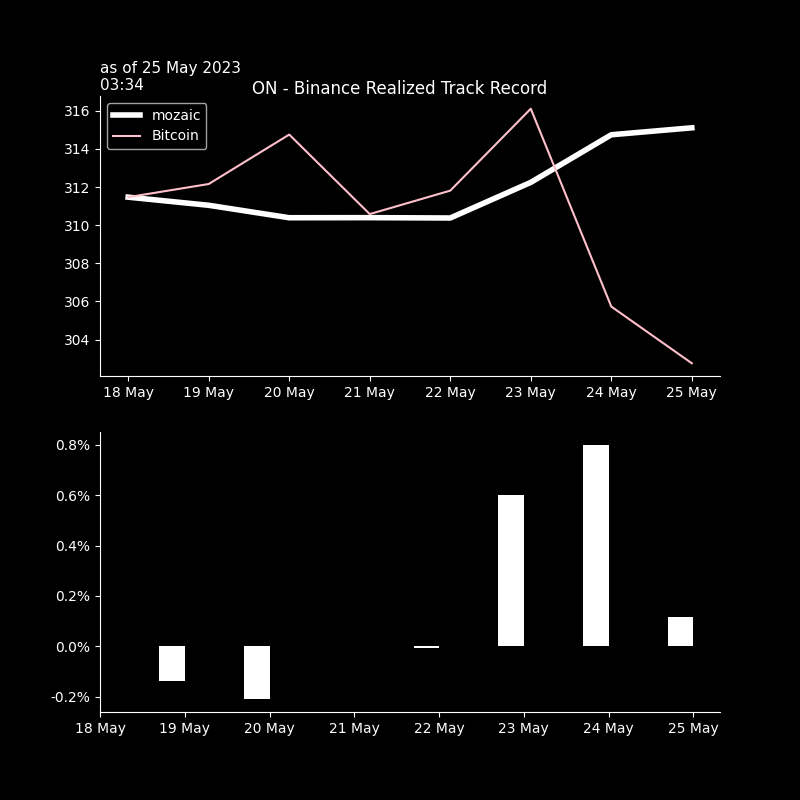
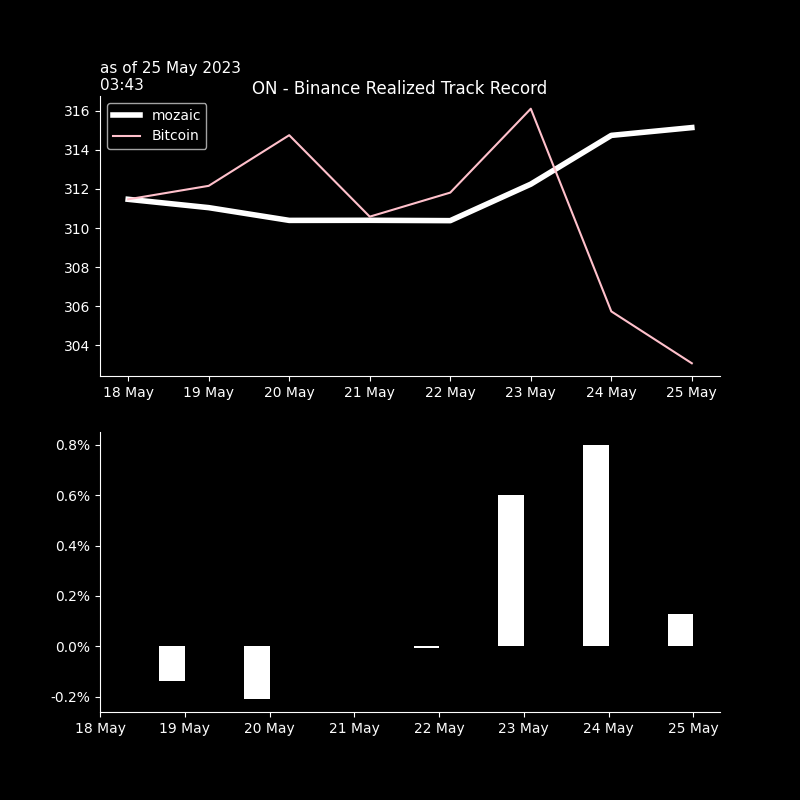
seb_commit

diff --git a/crypto/graphs/bt_trades_book.htmltrade_trades_book.html b/crypto/graphs/bt_trades_book.htmltrade_trades_book.html
@@ -37,36 +37,36 @@
   </thead>
   <tbody>
     <tr>
-      <th>BTCUSDT</th>
-      <td>26063.2000</td>
-      <td>2023-05-25 02:34:10</td>
-      <td>0.002</td>
-      <td>$52.1</td>
-      <td>$0.01</td>
+      <th>XRPUSDT</th>
+      <td>0.4512</td>
+      <td>2023-05-25 02:43:32.500</td>
+      <td>-171.800</td>
+      <td>$-77.5</td>
+      <td>$0.02</td>
       <td>2.0</td>
-      <td>0.3</td>
-      <td>26077.65000</td>
-      <td>2023-05-25 03:32</td>
       <td>0.0</td>
-      <td>6.0</td>
-      <td>26056.4</td>
+      <td>0.45155</td>
+      <td>2023-05-25 03:41</td>
+      <td>-0.1</td>
+      <td>-8.0</td>
+      <td>.4514</td>
       <td>-0.0</td>
-      <td>-2.0</td>
+      <td>-4.0</td>
     </tr>
     <tr>
-      <th>XRPUSDT</th>
-      <td>0.4509</td>
-      <td>2023-05-25 02:34:11</td>
-      <td>171.800</td>
-      <td>$77.5</td>
+      <th>BTCUSDT</th>
+      <td>26077.6000</td>
+      <td>2023-05-25 02:43:37.000</td>
+      <td>-0.001</td>
+      <td>$-26.1</td>
       <td>$0.01</td>
       <td>2.0</td>
-      <td>0.1</td>
-      <td>0.45105</td>
-      <td>2023-05-25 03:32</td>
       <td>0.0</td>
-      <td>4.0</td>
-      <td>.4509</td>
+      <td>26082.65000</td>
+      <td>2023-05-25 03:41</td>
+      <td>-0.0</td>
+      <td>-4.0</td>
+      <td>26079.3</td>
       <td>-0.0</td>
       <td>-0.0</td>
     </tr>

diff --git a/crypto/graphs/bt_trades_recap.htmltrade_trades_recap.html b/crypto/graphs/bt_trades_recap.htmltrade_trades_recap.html
@@ -9,32 +9,32 @@
   <tbody>
     <tr>
       <th>as of</th>
-      <td>25May 02:34&gt;&gt;02:34</td>
+      <td>25May 02:43&gt;&gt;02:43</td>
       <td>#trades: 2</td>
     </tr>
     <tr>
       <th>trade net</th>
-      <td>+130.0</td>
-      <td>+41.3%</td>
+      <td>-104.0</td>
+      <td>-33.0%</td>
     </tr>
     <tr>
       <th>trade gross</th>
-      <td>+130.0</td>
-      <td>+41.3%</td>
+      <td>+104.0</td>
+      <td>+33.0%</td>
     </tr>
     <tr>
       <th>BUY</th>
-      <td>+130.0</td>
-      <td>+41.3%</td>
-    </tr>
-    <tr>
-      <th>SELL</th>
       <td>+0.0</td>
       <td>+0.0%</td>
     </tr>
     <tr>
+      <th>SELL</th>
+      <td>-104.0</td>
+      <td>-33.0%</td>
+    </tr>
+    <tr>
       <th>fees</th>
-      <td>$ 0.026</td>
+      <td>$ 0.021</td>
       <td>2.0bp</td>
     </tr>
   </tbody>

diff --git a/crypto/graphs/bt_trades_pnlD_recap.htmltrade_trades_pnlD_recap.html b/crypto/graphs/bt_trades_pnlD_recap.htmltrade_trades_pnlD_recap.html
@@ -1,7 +1,7 @@
 <table border="1" class="dataframe">
   <thead>
     <tr style="text-align: right;">
-      <th>25 May 03:34</th>
+      <th>25 May 03:43</th>
       <th>realizedPnl</th>
       <th>PnLvsArrival</th>
       <th>PnLvsLast</th>
@@ -10,21 +10,21 @@
   <tbody>
     <tr>
       <th>in$</th>
-      <td>0.4</td>
-      <td>0.1</td>
+      <td>0.0</td>
+      <td>-0.1</td>
       <td>-0.0</td>
     </tr>
     <tr>
-      <th>in bp 129 traded</th>
-      <td>32 bp</td>
-      <td>5 bp</td>
-      <td>-1 bp</td>
+      <th>in bp 103 traded</th>
+      <td>3 bp</td>
+      <td>-7 bp</td>
+      <td>-3 bp</td>
     </tr>
     <tr>
       <th>in bp 315 AUMs</th>
-      <td>13 bp</td>
-      <td>2 bp</td>
-      <td>-0 bp</td>
+      <td>1 bp</td>
+      <td>-2 bp</td>
+      <td>-1 bp</td>
     </tr>
   </tbody>
 </table>
